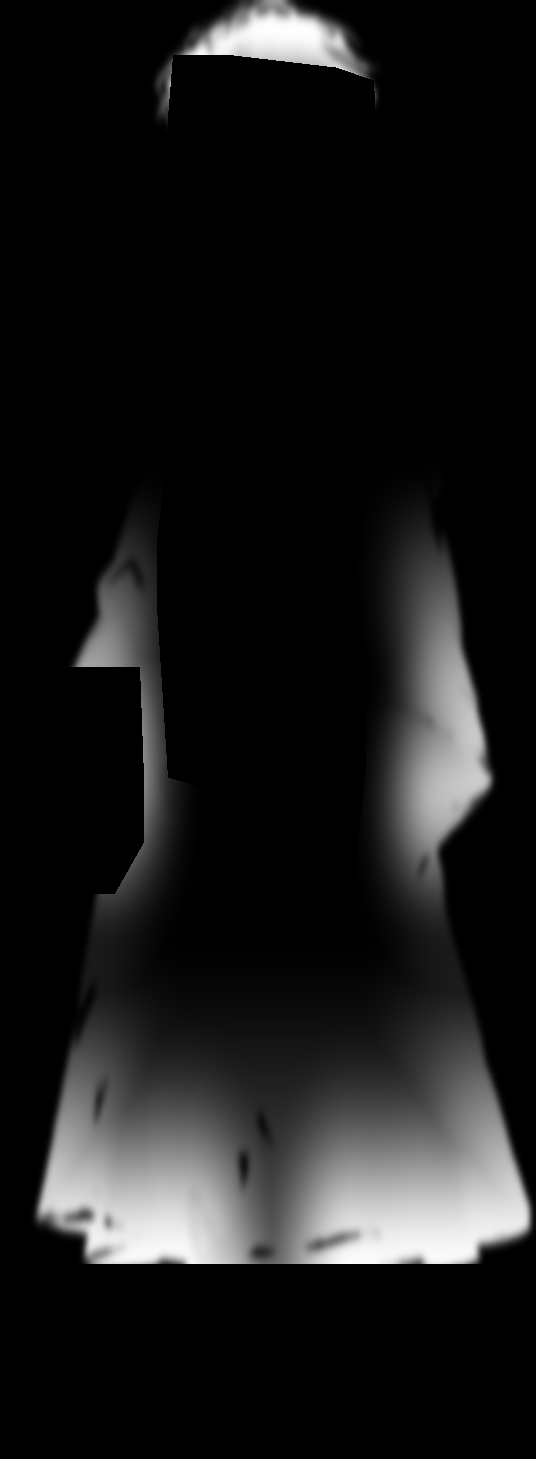
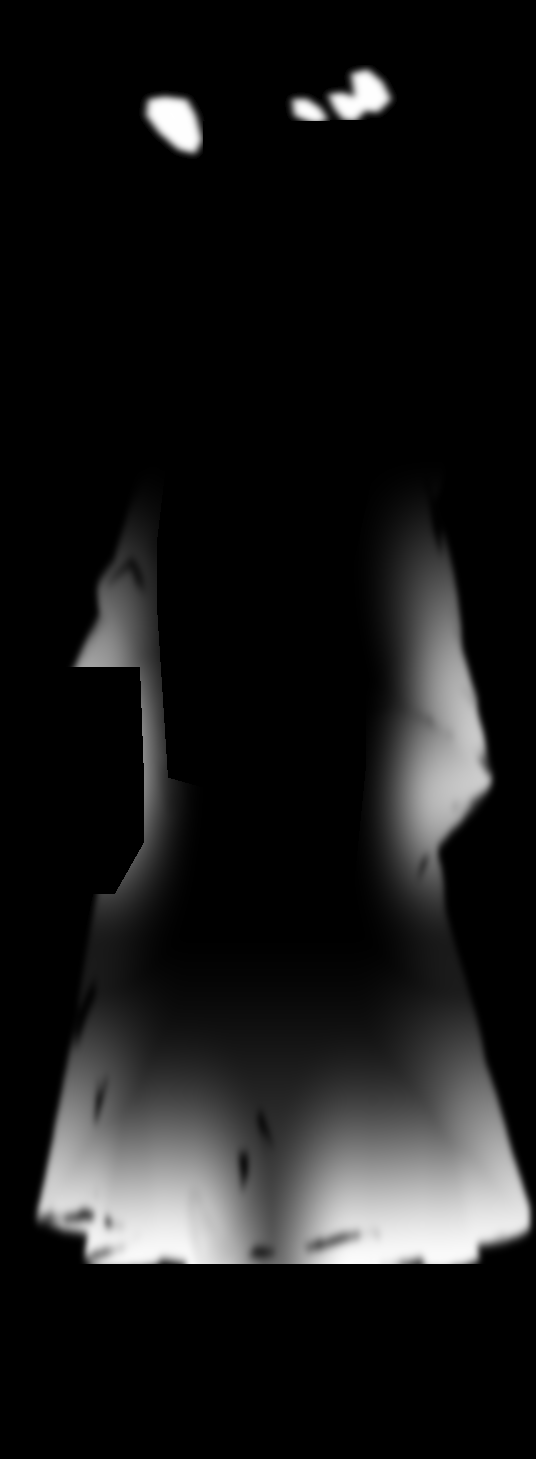
Add files via upload

Changed region(s): [[0.2687, 0.0, 0.7463, 0.1234]]

diff --git a/src/wind.js b/src/wind.js
@@ -41,15 +41,21 @@ function readWeights(texture) {
 
 function buildGrid(sprite, bounds, oak, dracoWeights) {
   const { x, y, width, height, columns, rows } = bounds;
+  // Subdivide only the first five rows so the tiny loose ends have their own vertices.
+  const headRows = dracoWeights ? 5 : 0;
+  const subdivisions = 4;
+  const rowCount = rows + headRows * (subdivisions - 1);
+  const vertical = Array.from({ length: rowCount + 1 }, (_, row) =>
+    (row < headRows * subdivisions ? row / subdivisions : row - headRows * (subdivisions - 1)) / rows);
   const positions = [];
   const uvs = [];
   const weights = [];
   const indices = [];
   const source = sprite.texture.orig;
-  for (let row = 0; row <= rows; row++) {
+  for (let row = 0; row <= rowCount; row++) {
     for (let col = 0; col <= columns; col++) {
       const u = col / columns;
-      const v = row / rows;
+      const v = vertical[row];
       const worldX = x + width * u;
       const worldY = y + height * v;
       positions.push(width * u, height * v);
@@ -59,7 +65,7 @@ function buildGrid(sprite, bounds, oak, dracoWeights) {
         oak ? ((worldY - sprite.y) / sprite.height * source.height + 2) / (source.height + 4) : v,
       );
       weights.push(oak ? oakWeight(worldX, worldY) : dracoWeights ? dracoWeights(u, v) : craneWeight(u, v));
-      if (col < columns && row < rows) {
+      if (col < columns && row < rowCount) {
         const top = row * (columns + 1) + col;
         const bottom = top + columns + 1;
         indices.push(top, top + 1, bottom, top + 1, bottom + 1, bottom);
@@ -67,7 +73,7 @@ function buildGrid(sprite, bounds, oak, dracoWeights) {
     }
   }
   return { positions: new Float32Array(positions), uvs: new Float32Array(uvs),
-    indices: new Uint32Array(indices), weights };
+    indices: new Uint32Array(indices), weights, vertical };
 }
 
 function layerTexture(sprite, padded, grid, bounds, debug = false) {
@@ -80,11 +86,13 @@ function layerTexture(sprite, padded, grid, bounds, debug = false) {
     const colors = canvas(width, height);
     const brush = colors.getContext('2d');
     const pixels = brush.createImageData(width, height);
-    const { columns, rows } = bounds;
+    const { columns } = bounds;
+    const { vertical } = grid;
+    let top = 0;
     for (let y = 0; y < height; y++) {
-      const row = (sprite.y + (y + .5) / height * sprite.height - bounds.y) / bounds.height * rows;
-      const top = Math.min(rows - 1, Math.floor(row));
-      const fy = row - top;
+      const row = (sprite.y + (y + .5) / height * sprite.height - bounds.y) / bounds.height;
+      while (top < vertical.length - 2 && row >= vertical[top + 1]) top++;
+      const fy = (row - vertical[top]) / (vertical[top + 1] - vertical[top]);
       for (let x = 0; x < width; x++) {
         const col = (sprite.x + (x + .5) / width * sprite.width - bounds.x) / bounds.width * columns;
         const left = Math.min(columns - 1, Math.floor(col));
@@ -157,7 +165,7 @@ function makeLayer(sprite, { webgl, debug, weights }) {
     const heightFraction = grid.positions[offset + 1] / bounds.height;
     const material = oak ? WIND.oak : heightFraction < .15 ? WIND.hair : WIND.robe;
     // Hair tips lag behind the roots. Fabric folds travel down from the shoulder.
-    const lag = material.delay * (material === WIND.hair ? 1 - heightFraction / .15 : heightFraction);
+    const lag = material.delay * (material === WIND.hair ? heightFraction / .15 : heightFraction);
     moving.push({ index, worldX, phase: worldX * .022 + worldY * .031, weight, material, lag });
   });
   return {

diff --git a/scripts/build-wind-mask.py b/scripts/build-wind-mask.py
@@ -25,13 +25,27 @@ def smooth(low, high, value):
 
 solid = alpha > .35
 edge_distance = distance_transform_edt(solid, sampling=(1 / height, 1 / width))
-# Gold and cream pixels in the top silhouette identify strands. Keep the
-# forehead, ears and the face-side hairline behind a padded, fixed boundary.
-hair_zone = polygon([(.20, 0), (.76, 0), (.79, .079), (.65, .107),
-                     (.60, .066), (.43, .057), (.37, .105), (.24, .082)])
-gold = smooth(.015, .14, red - blue) * smooth(.37, .68, red)
-hair = hair_zone * (.48 + .52 * gold) * (1 - smooth(.012, .077, edge_distance))
-hair *= 1 - smooth(.065, .115, y)
+# Four loose ends traced from the annotated close-up in source-image pixels.
+# The crown and the painted face are outside these patches.
+tip_regions = [
+    [(148, 100), (165, 96), (186, 99), (195, 115), (201, 140),
+     (194, 153), (178, 149), (159, 132), (146, 115)],
+    [(292, 100), (305, 98), (319, 107), (327, 119),
+     (316, 124), (306, 120), (294, 115)],
+    [(328, 94), (342, 92), (357, 98), (364, 111),
+     (354, 121), (343, 119), (334, 108)],
+    [(351, 73), (367, 69), (382, 82), (390, 99),
+     (377, 113), (365, 110), (355, 99)],
+]
+tips = np.zeros((height, width))
+for region in tip_regions:
+    tips = np.maximum(tips, polygon([(px / width, py / height) for px, py in region]))
+hair = gaussian_filter(tips, sigma=(3.4, 3.8))
+# End the feathering before the eyebrow and ear. The low-weight cutoff also
+# prevents a one-pixel blur tail from moving a neighbouring mesh cell.
+fixed_face = ((x >= 203 / width) & (x < 330 / width) & (y >= 121 / height))
+fixed_ear = (x >= 330 / width) & (y >= 120 / height)
+hair[(y < 65 / height) | fixed_face | fixed_ear | (hair < .025)] = 0
 
 # Separate the robe by its painted outline and darker fabric pigments.
 robe_zone = polygon([(.35, .19), (.91, .16), (.99, .85), (.8, .886),
@@ -57,6 +71,7 @@ protected = (
     | polygon([(0, .72), (.086, .552), (.132, .565), (.037, .727)])
     | (y >= .889)
 )
-weights = gaussian_filter(np.maximum(hair, robe) * solid, sigma=(5, 3))
+weights = gaussian_filter(robe * solid, sigma=(5, 3))
 weights *= ~maximum_filter(protected, size=(67, 61))
+weights = np.maximum(weights, hair)
 Image.fromarray(np.uint8(np.clip(weights, 0, 1) * 255)).save(assets / "draco-wind-weights.png", optimize=True)
